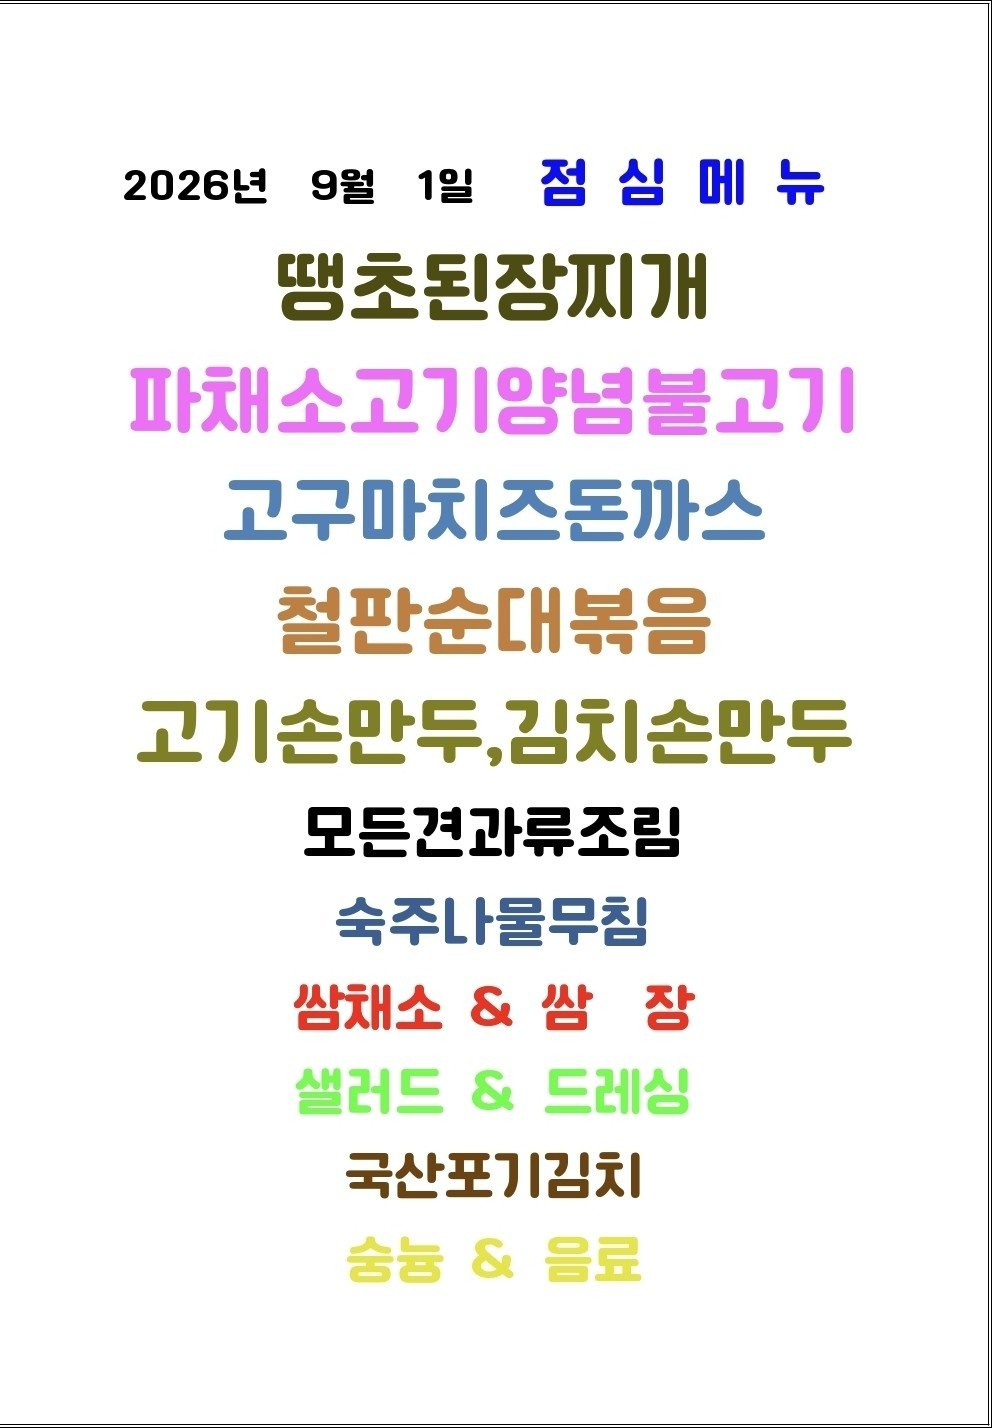
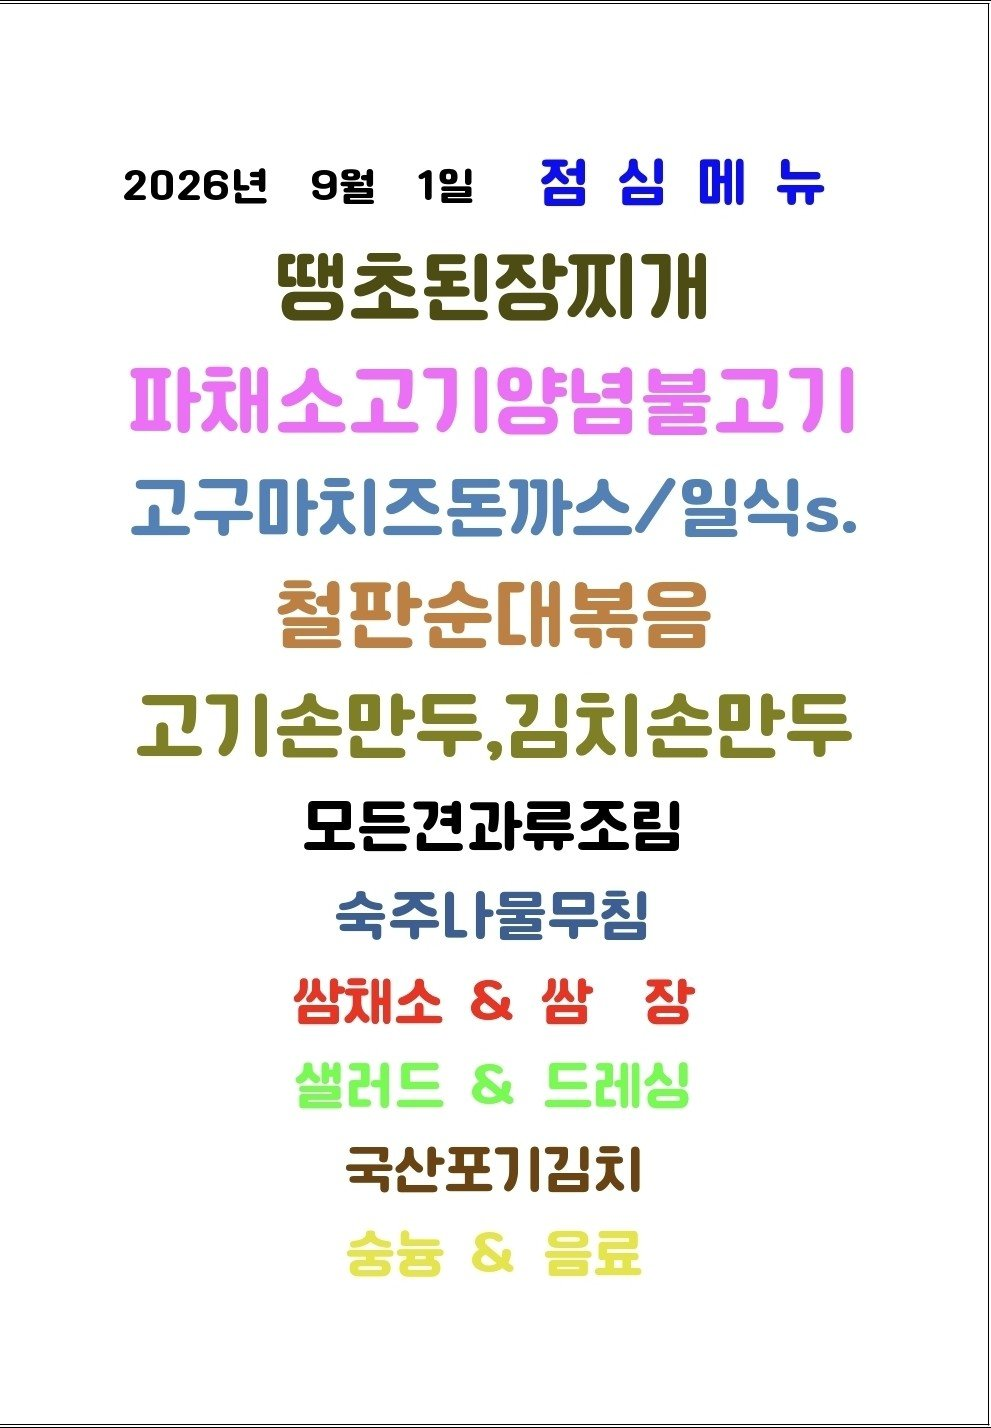
Update menu board assets

diff --git a/menu-today/index.html b/menu-today/index.html
@@ -209,7 +209,7 @@
 
     <section class="meta-bar">
       <div class="meta-card"><div class="meta-label">기준 날짜</div><div class="meta-value">2026년 9월 1일 화요일</div></div>
-      <div class="meta-card"><div class="meta-label">최종 가져온 시간</div><div class="meta-value">2026-09-01 11:18:21</div></div>
+      <div class="meta-card"><div class="meta-label">최종 가져온 시간</div><div class="meta-value">2026-09-01 11:33:27</div></div>
       <div class="meta-card"><div class="meta-label">확인 완료</div><div class="meta-value">9개 식당</div></div>
       <div class="meta-card"><div class="meta-label">준비중</div><div class="meta-value">3개 채널</div></div>
     </section>
@@ -265,7 +265,7 @@
             <div class="sub">가산비즈니스센터</div>
           </div>
         </div>
-        <div class="menu-inline-image"><img src="./images/raonfood.png" alt="구내식당라온푸드 식단 이미지"></div><ul><li>고구바지즈돈까스</li><li>철판춘[!봉을</li><li>모든견과류조림</li><li>숙주나물 무침</li><li>샐러드 &amp; 드레싱</li><li>숭늄 &amp; S &amp; F</li><li>절침베튜</li><li>파재소고 )</li><li>으려 FI</li></ul>
+        <div class="menu-inline-image"><img src="./images/raonfood.png" alt="구내식당라온푸드 식단 이미지"></div><ul><li>절판춘대북을</li><li>고)손만두,김지손만두</li><li>모든견과류조림</li><li>숙주나물 무침</li><li>샐러드 &amp; 드레싱</li><li>절침베튜</li><li>파재소고 )양념불고 )</li><li>고구마지즈돈까스 / 일식*</li></ul>
       </article>
 
       <article class="restaurant-card">
@@ -295,7 +295,7 @@
             <div class="sub">에이스테크노타워10차</div>
           </div>
         </div>
-        <div class="menu-inline-image"><img src="./images/thefoodsketch.png" alt="더푸드스케치 식단 이미지"></div><ul><li>공나물애장국</li><li>소세지전</li><li>메밀막국수</li><li>토마토두부조림</li><li>그 일배기배추 / 쌈장</li><li>GS 무밀랭이</li><li>가든샐러드 / 드레싱</li><li>보쌈김치 / 음료</li><li>혼합잡곡밥 [ 더푸드드케차</li></ul>
+        <div class="menu-inline-image"><img src="./images/thefoodsketch.png" alt="더푸드스케치 식단 이미지"></div><ul><li>공나물애장국</li><li>소세지전</li><li>메밀막국수</li><li>토마토두부조림</li><li>그 일배기배추 / 쌈장</li><li>GS 무밀랭이</li><li>가든샐러드 &amp; 드레싱</li><li>보쌈김치 / 음료</li><li>혼합잡곡밥 [ 더푸드드케차</li></ul>
       </article>
 
       <article class="restaurant-card">

diff --git a/guro-menu/index.html b/guro-menu/index.html
@@ -32,7 +32,7 @@
   </header>
   <section class="meta">
     <div><small>기준 날짜</small><strong>2026년 9월 1일 화요일</strong></div>
-    <div><small>최종 갱신</small><strong>2026-09-01 11:18:35</strong></div>
+    <div><small>최종 갱신</small><strong>2026-09-01 11:33:44</strong></div>
     <div><small>등록 식당</small><strong>5개</strong></div>
   </section>
   <div class="notice">공개 카카오 채널의 메뉴 이미지를 자동 수집하고 OCR로 정리합니다. 텍스트에 오타가 있을 수 있으니 식단 이미지를 함께 확인해 주세요.</div>
